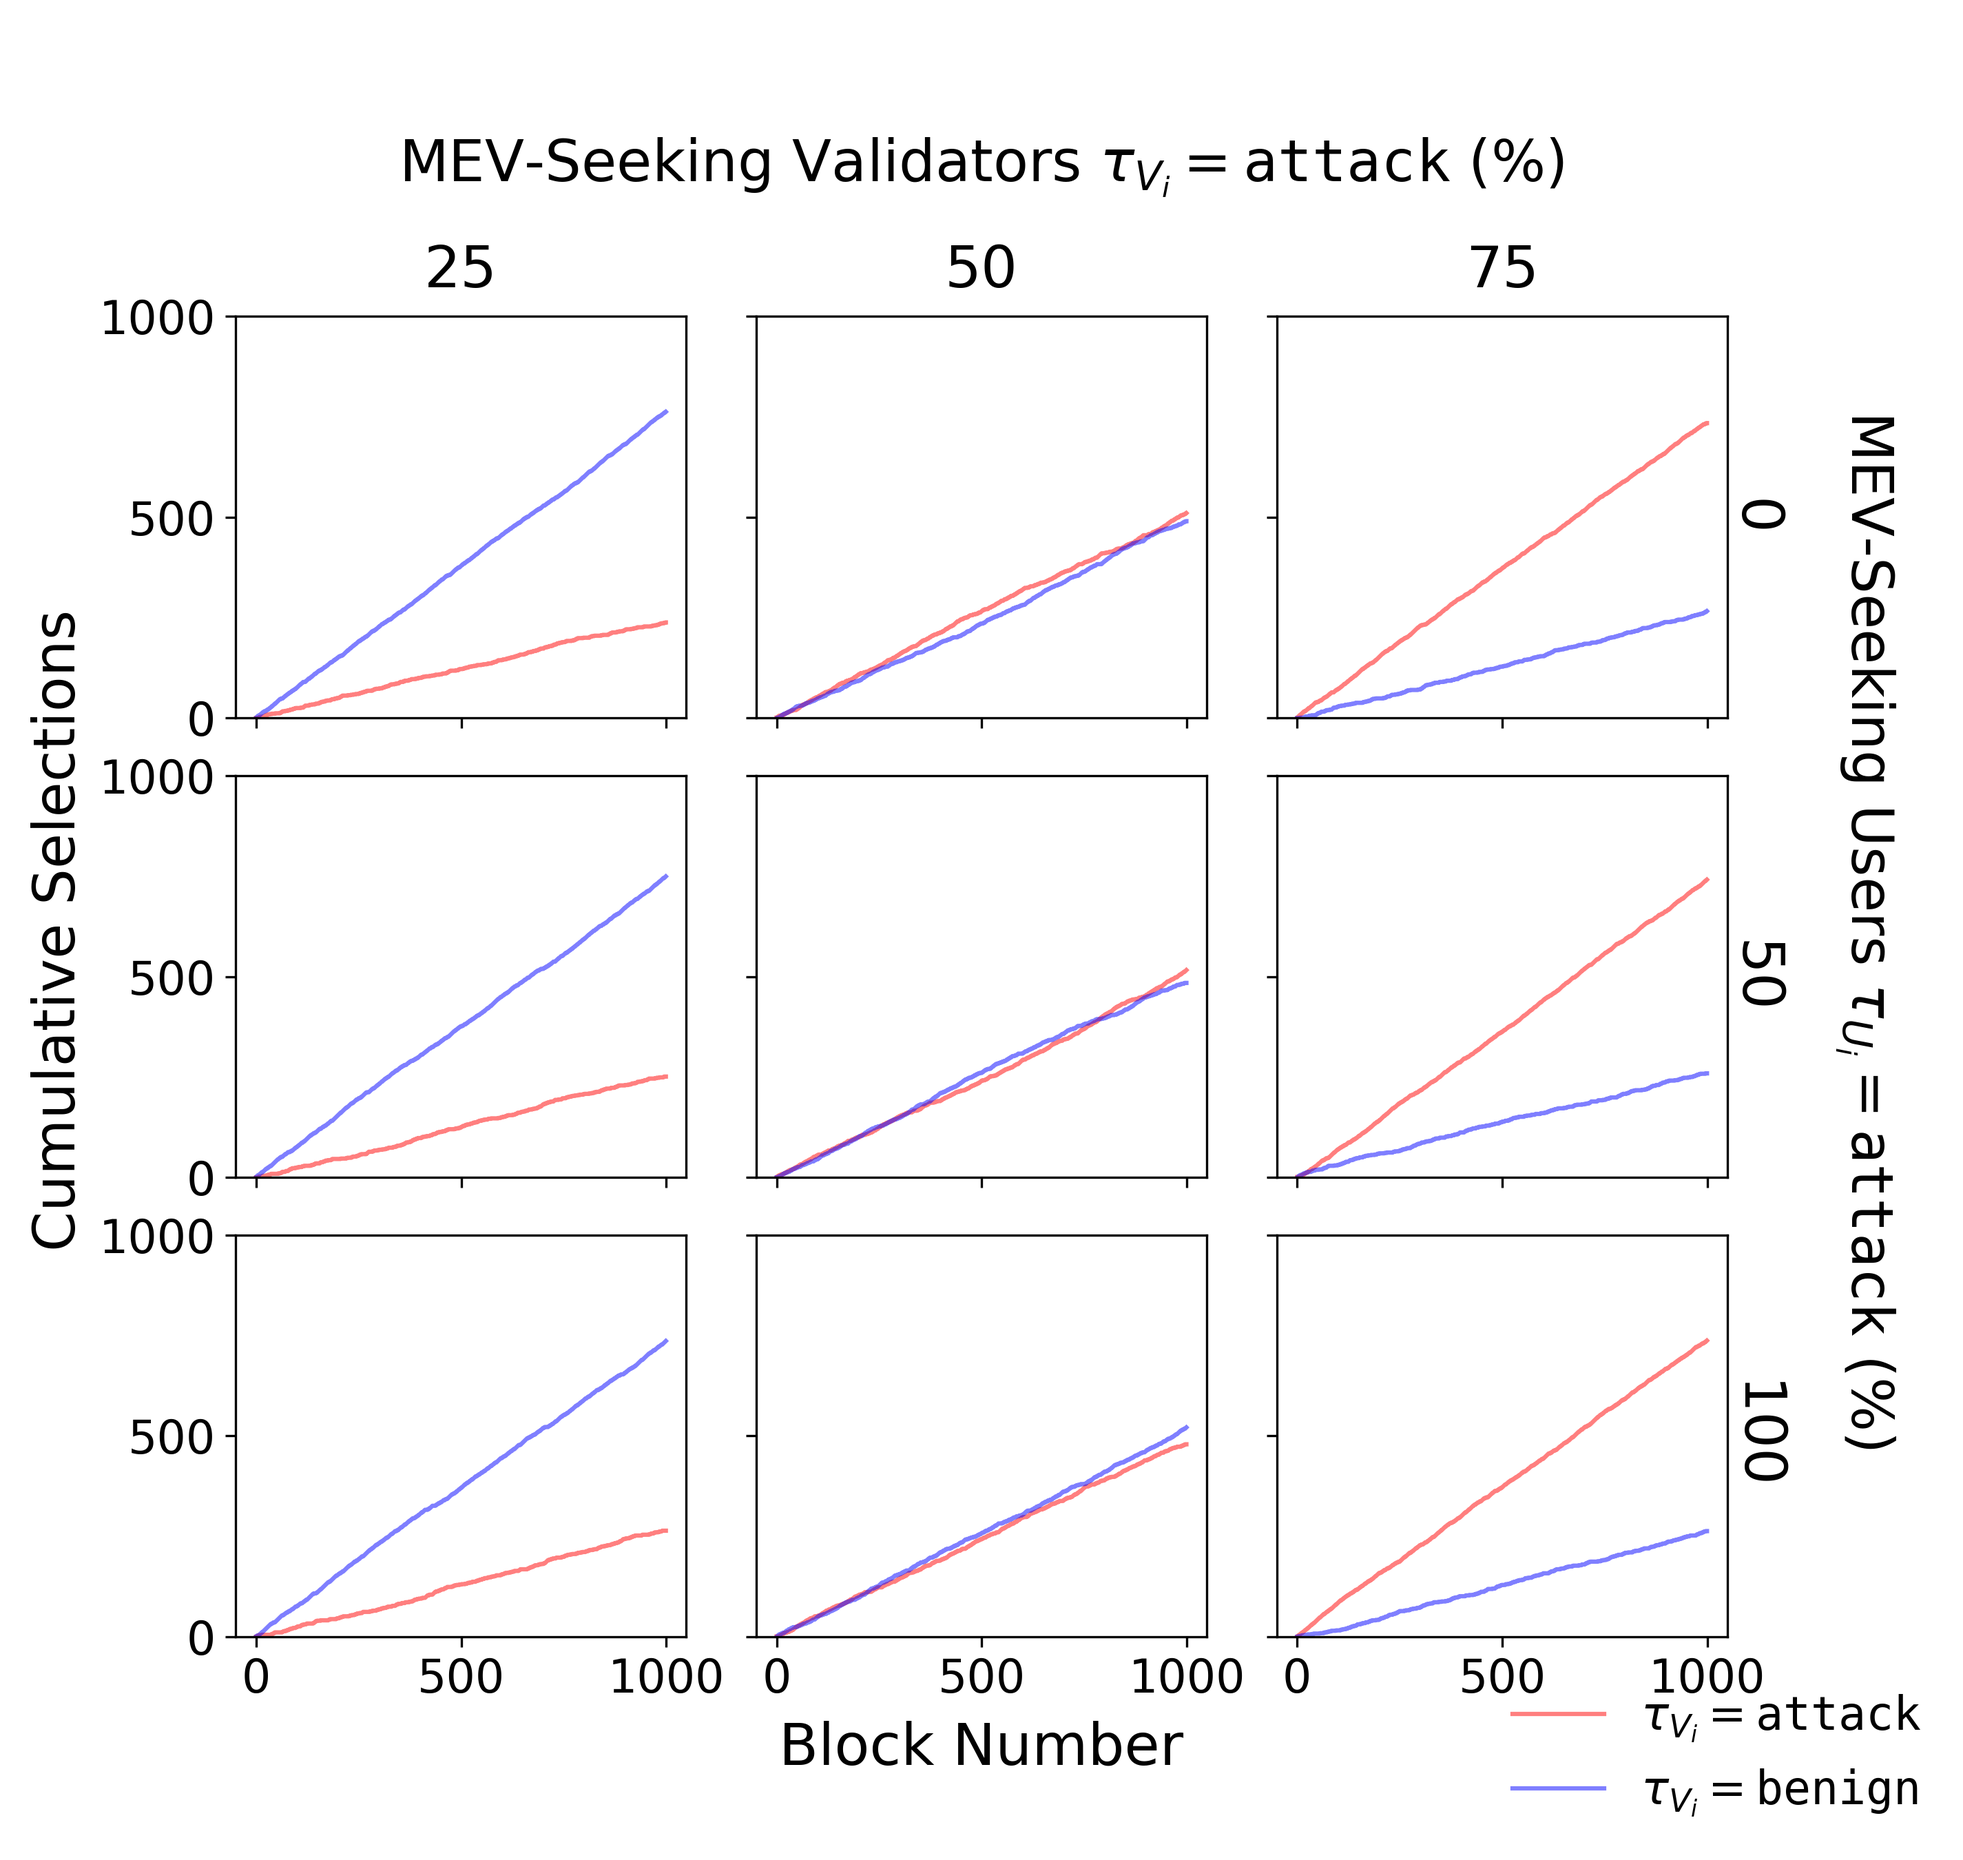
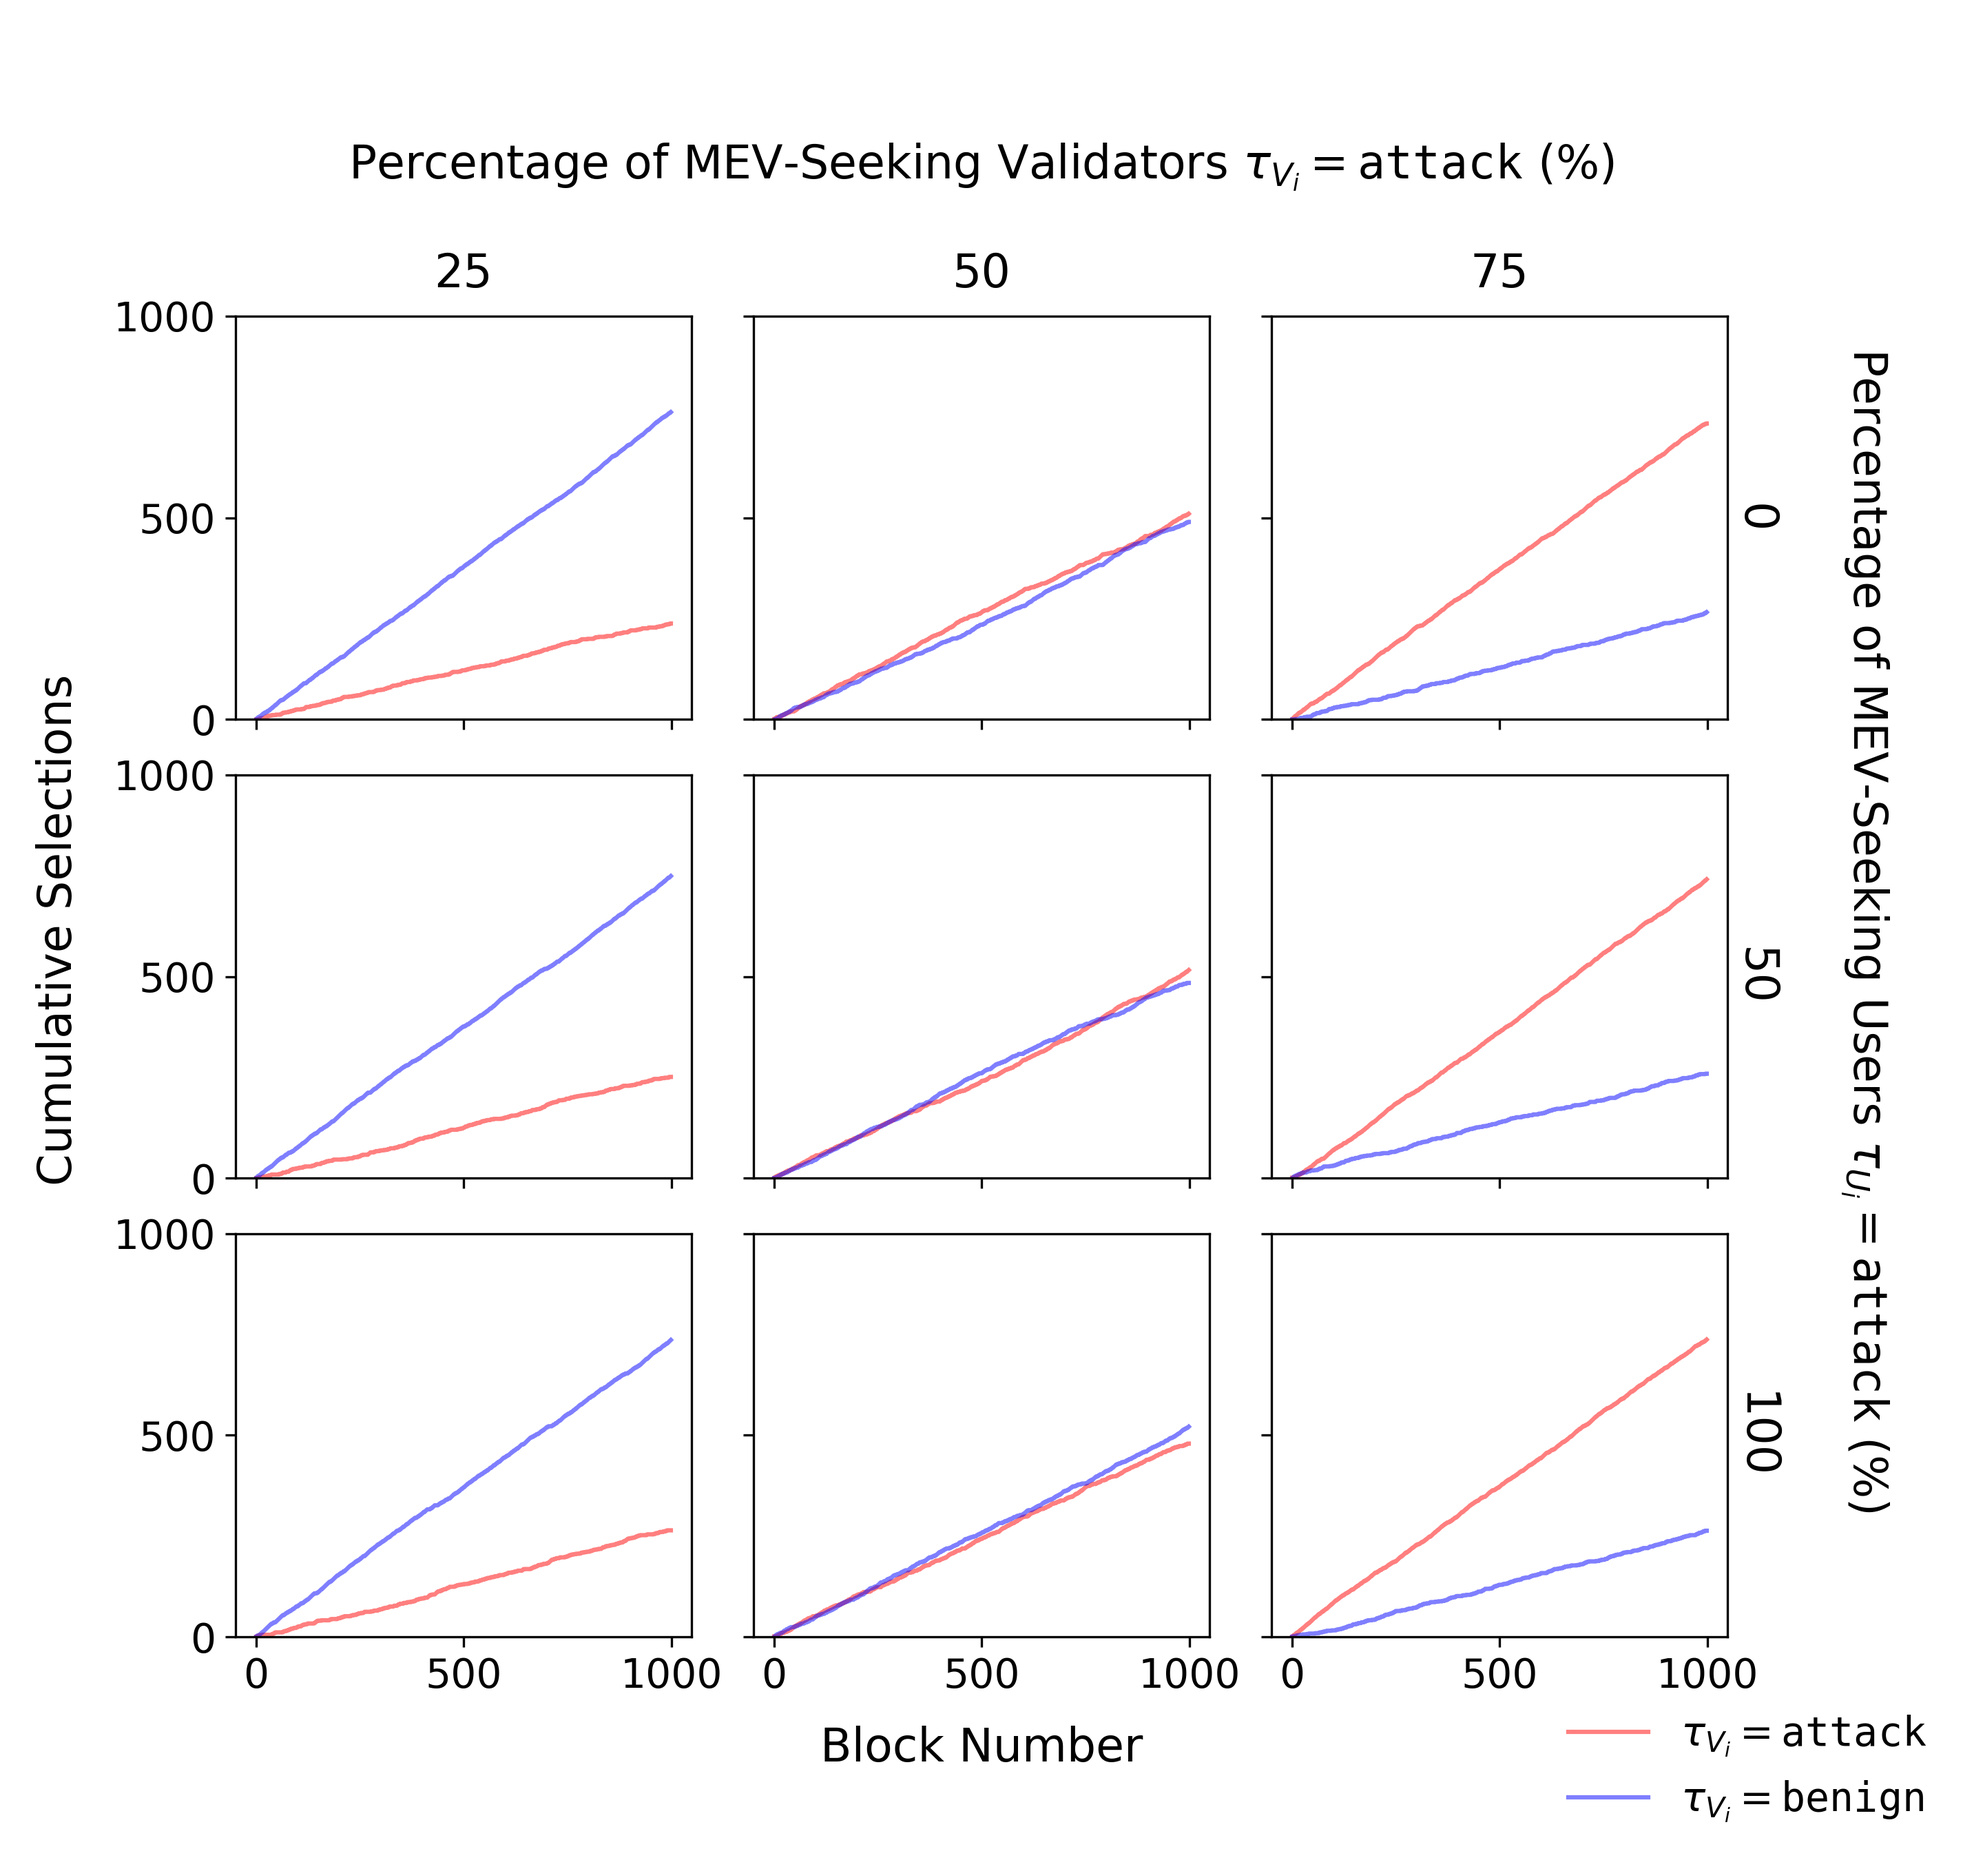
update font size

diff --git a/plots/ss/pbs_selection_3*3.py b/plots/ss/pbs_selection_3*3.py
@@ -66,9 +66,9 @@ def plot_cumulative_selections_over_blocks(data_folder, configs):
     )
 
     # Font sizes
-    label_font_size = 16
-    tick_label_font_size = 16
-    outer_label_font_size = 20
+    label_font_size = 14
+    tick_label_font_size = 14
+    outer_label_font_size = 16
 
     y_limit = 1000
     handles, labels = [], []
@@ -145,14 +145,14 @@ def plot_cumulative_selections_over_blocks(data_folder, configs):
     # Top: "Percentage of Attacking Builders"
     fig.text(
         0.5, 0.91,  # Move down from 0.95 if needed
-        r"MEV-Seeking Builders $\tau_{B_i} = \mathtt{attack}$ (%)",
+        r"Percentage of MEV-Seeking Builders $\tau_{B_i} = \mathtt{attack}$ (%)",
         ha='center', va='center',
         fontsize=outer_label_font_size
     )
     # Right: "Percentage of Attacking Users"
     fig.text(
         0.95, 0.5,  # Move left from 0.92 if needed
-        r"MEV-Seeking Users $\tau_{U_i} = \mathtt{attack}$ (%)",
+        r"Percentage MEV-Seeking Users $\tau_{U_i} = \mathtt{attack}$ (%)",
         ha='center', va='center',
         rotation=-90,
         fontsize=outer_label_font_size

diff --git a/plots/ss/pos_selection_3*3.py b/plots/ss/pos_selection_3*3.py
@@ -73,9 +73,9 @@ def plot_cumulative_selections_over_blocks(data_folder, configs):
     )
 
     # Font sizes
-    label_font_size = 16
-    tick_label_font_size = 16
-    outer_label_font_size = 20
+    label_font_size = 14
+    tick_label_font_size = 14
+    outer_label_font_size = 16
 
     # Common y-limit
     y_limit = 1000
@@ -151,13 +151,13 @@ def plot_cumulative_selections_over_blocks(data_folder, configs):
     # Single text labels
     fig.text(
         0.5, 0.91,  # top
-        r"MEV-Seeking Validators $\tau_{V_i} = \mathtt{attack}$ (%)",
+        r"Percentage of MEV-Seeking Validators $\tau_{V_i} = \mathtt{attack}$ (%)",
         ha='center', va='center',
         fontsize=outer_label_font_size
     )
     fig.text(
         0.95, 0.5,  # right
-        r"MEV-Seeking Users $\tau_{U_i} = \mathtt{attack}$ (%)",
+        r"Percentage of MEV-Seeking Users $\tau_{U_i} = \mathtt{attack}$ (%)",
         ha='center', va='center',
         rotation=-90,
         fontsize=outer_label_font_size
